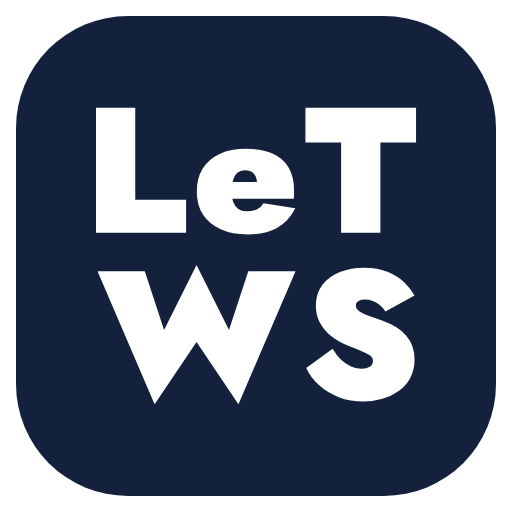
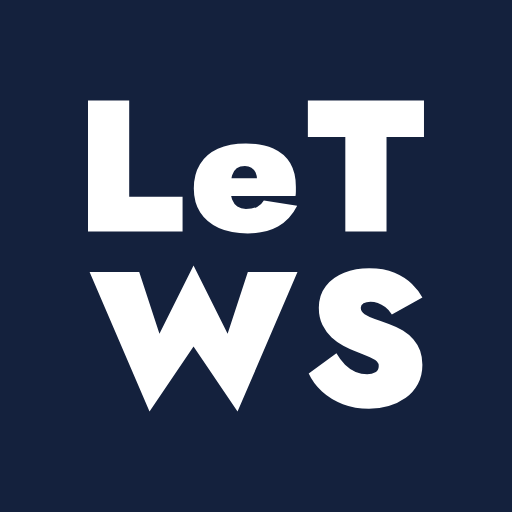
The profile picture fills its own square
GitHub does the rounding. It masks an organisation's picture at about 9% of
the side and rounds a person's into a circle, then composites the result
straight onto the page — so the image it is given should be a square, edge to
edge, and nothing else.

This one rounded its own corners at 22% and held a transparent margin inside
them: 16px of nothing all round on a 512px tile, 16% of the file drawing
nothing at all. Next to other avatars it was visibly the small one, sitting in
a gap, with corners rounder than the interface around it. On the dark theme the
margin and the corners were the page showing through, so the mark read as a
navy blob rather than as a square.

The mark is unchanged — same navy, same LeT over WS, same baked outlines. It
now fills the square and is set at 42 units of 64 rather than 40, since the two
units of inset are gone. Half the diagonal of that block is 29.7 against a
radius of 32, so the letters survive a circular crop as well as a rounded
square, and they stand 17% of the side clear of the nearest edge against the
9% GitHub takes.

favicon.svg keeps its rounded square: a favicon is drawn onto the tab and owns
its own shape. The apple-touch icon is cut from that same file and has the
inset for the same reason it was wrong here — iOS masks it too — but that is a
separate file and a separate decision.

Also carries the banner work in poster.py: the long name moves beside the mark
[…]

diff --git a/tools/poster.py b/tools/poster.py
@@ -1145,9 +1145,15 @@ BANNER = """<!doctype html>
     line-height:.92; color:{hot}; letter-spacing:-.02em; margin:0;
   }}
   .mark span {{ font-weight:300; }}
+  /* Beside the name, not under it. Six metres is a long line and a banner is
+     read across rather than down: set below, the long name was a second row
+     the eye had to come back for, and it is the same words as the mark said
+     already. On the baseline it reads as the name's own expansion — "LeT
+     Workshop, which is the Learning Theory Workshop" — in one pass. */
+  .lead {{ display:flex; align-items:baseline; gap:70mm; }}
   .longname {{
     font-family:"Satoshi",sans-serif; font-weight:500; font-size:76mm;
-    letter-spacing:-.01em; color:{ink}; opacity:.58; margin:26mm 0 0 16mm;
+    letter-spacing:-.01em; color:{ink}; opacity:.58; margin:0;
   }}
   /* The credit line every Korean banner carries: when, where, and under whose
      marks — one row, at the foot, in the order someone reads them. The hosts
@@ -1165,9 +1171,15 @@ BANNER = """<!doctype html>
     letter-spacing:.16em; text-transform:uppercase; color:{hot};
   }}
   .rule {{ width:1.3mm; height:70mm; background:{ink}; opacity:.24; }}
-  .marks {{ display:flex; align-items:center; gap:62mm; margin-left:26mm; }}
+  /* Bottom-aligned, because that is what logo_row's margins assume: it sets
+     every mark to the same cap height and then pushes each one down by the
+     distance its letters sit above its own bottom edge. Centred, that
+     correction is applied to a row that has already been re-centred, and the
+     letters come out on three different lines. */
+  .marks {{ display:flex; align-items:flex-end; gap:62mm; margin-left:26mm; }}
   /* As published, at full strength. See logo_row's `flat` switch for why a
-     credit row is not the place for a silhouette. */
+     credit row is not the place for a silhouette. Height is not set here —
+     logo_row writes it per mark, from the ratios in data/site.yml. */
   .marks img {{ width:auto; display:block; }}
   /* The funder\'s own sentence. Smallest thing on a six-metre banner and the
      only one nobody will read from across the courtyard, which is right: it is
@@ -2449,8 +2461,14 @@ def main(art_path, out_path, layout="stack", photo=None, cutout=None, duotone=No
         cta_short="Register",
         logos=logo_row(site["sponsors"]["logos"], PALETTE["cool"])
               if site.get("sponsors") else "",
+        # A six-metre cloth, not a sheet's foot: the letters in the marks are
+        # set at 44mm, which puts KAIST at 80mm tall, POSTECH at 75 and the
+        # NRF's stacked mark at 122. They differ because they are different
+        # marks — matching their letters is what makes them look like one row,
+        # and forcing all three to the same box height is what made KAIST's
+        # letters half again the size of the NRF's.
         logos_colour=logo_row(site["sponsors"]["logos"],
-                              PALETTE["cool"], cap=8.0, flat=False)
+                              PALETTE["cool"], cap=44.0, flat=False)
                      if site.get("sponsors") else "",
         acronym_name=acronym_html(site["full_name"], mark),
         long_name=esc(site["full_name"].title()),

diff --git a/tools/make-wordmark.py b/tools/make-wordmark.py
@@ -85,8 +85,19 @@ def main() -> None:
             f"    {inner}\n  </g>\n</svg>\n"
         )
 
-    def stacked(words, target):
+    def stacked(words, target, full_bleed=False):
         """Two words on two rows, at one scale, centred as a block.
+
+        `full_bleed` fills the whole square and rounds nothing. That is what a
+        GitHub picture wants: GitHub masks the image itself, with a corner
+        radius of about 9% of the side for an organisation, and it composites
+        the result straight onto the page. An image that rounds its own corners
+        at 22% and holds a 3% transparent margin inside them — which is what
+        this drew — arrives as a tile visibly smaller than every other avatar
+        in the list, set in a gap, with corners rounder than the rest of the
+        interface; and on the dark theme the margin and the corners are the
+        page showing through, so the mark reads as a navy blob rather than as a
+        square. The rounding belongs to whoever is displaying it.
 
         The square mark says LeT WS, not LeT: on a profile the acronym on its
         own is three letters that could be anything, and "workshop" is what
@@ -112,15 +123,22 @@ def main() -> None:
                         f"\n      {inner}\n    </g>")
             y += gh * scale + gap * scale
         body = "\n    ".join(rows)
+        ground = ('<rect width="64" height="64" fill="%s"/>' % NAVY if full_bleed
+                  else '<rect x="2" y="2" width="60" height="60" rx="14" fill="%s"/>' % NAVY)
         return (
             f'<svg xmlns="http://www.w3.org/2000/svg" viewBox="0 0 64 64" role="img" '
             f'aria-label="{" ".join(words)}">\n'
-            f'  <rect x="2" y="2" width="60" height="60" rx="14" fill="{NAVY}"/>\n'
+            f'  {ground}\n'
             f"  <!-- Baked outlines — no font needed. Regenerate: tools/make-wordmark.py -->\n"
             f'  <g fill="#ffffff">\n    {body}\n  </g>\n</svg>\n'
         )
 
-    (ROOT / "static" / "let-logo.svg").write_text(stacked(SQUARE, 40), encoding="utf-8")
+    # 42 of 64 rather than 40: the two units of inset are gone, and the block
+    # still sits inside the inscribed circle — half its diagonal is 29.7
+    # against a radius of 32 — so it survives a round crop as well as a
+    # rounded-square one.
+    (ROOT / "static" / "let-logo.svg").write_text(
+        stacked(SQUARE, 42, full_bleed=True), encoding="utf-8")
 
     # The favicon keeps the first letter — a whole word is illegible at 16px.
     k_paths, k_bounds = draw(WORD[0])

diff --git a/CONTRIBUTING.md b/CONTRIBUTING.md
@@ -142,7 +142,7 @@ outlines rather than `<text>`, so they render the same wherever they are used:
 | file | what it is |
 | --- | --- |
 | `templates/wordmark.svg` | the letters alone, inheriting colour — the hero and the top bar |
-| `static/let-logo.svg` | LET WS on two rows in a navy rounded square — the profile picture |
+| `static/let-logo.svg` | LET WS on two rows, full-bleed navy — the profile picture |
 | `static/favicon.svg` | one letter, because a word is illegible at 16px |
 
 The square mark says LET WS rather than LET: on a profile the acronym on its own
@@ -152,7 +152,19 @@ the name of a thing.
 `favicon-32.png`, `favicon-180.png` (apple-touch-icon) and `let-avatar.png` are
 rasterised from those SVGs for the places that will not take one — browsers with
 no SVG icon support, and GitHub, which wants a raster for an organisation
-picture. Re-cut them after re-running the tool:
+picture.
+
+The profile picture is the one that fills its square edge to edge and rounds
+nothing. Everywhere it is shown, the thing showing it does the rounding —
+GitHub masks an organisation's picture at about 9% of the side, and rounds a
+person's into a circle — so a mark that rounds its own corners at 22% and keeps
+a transparent margin inside them arrives smaller than every other avatar in the
+list, sitting in a gap, with corners rounder than the rest of the page. The
+letters are kept within 229px of the centre of 512, so a circular crop cannot
+reach them either. `favicon.svg` keeps its rounded square, because a favicon is
+drawn onto the tab and owns its own shape.
+
+Re-cut them after re-running the tool:
 
 ```sh
 python3 tools/make-wordmark.py
